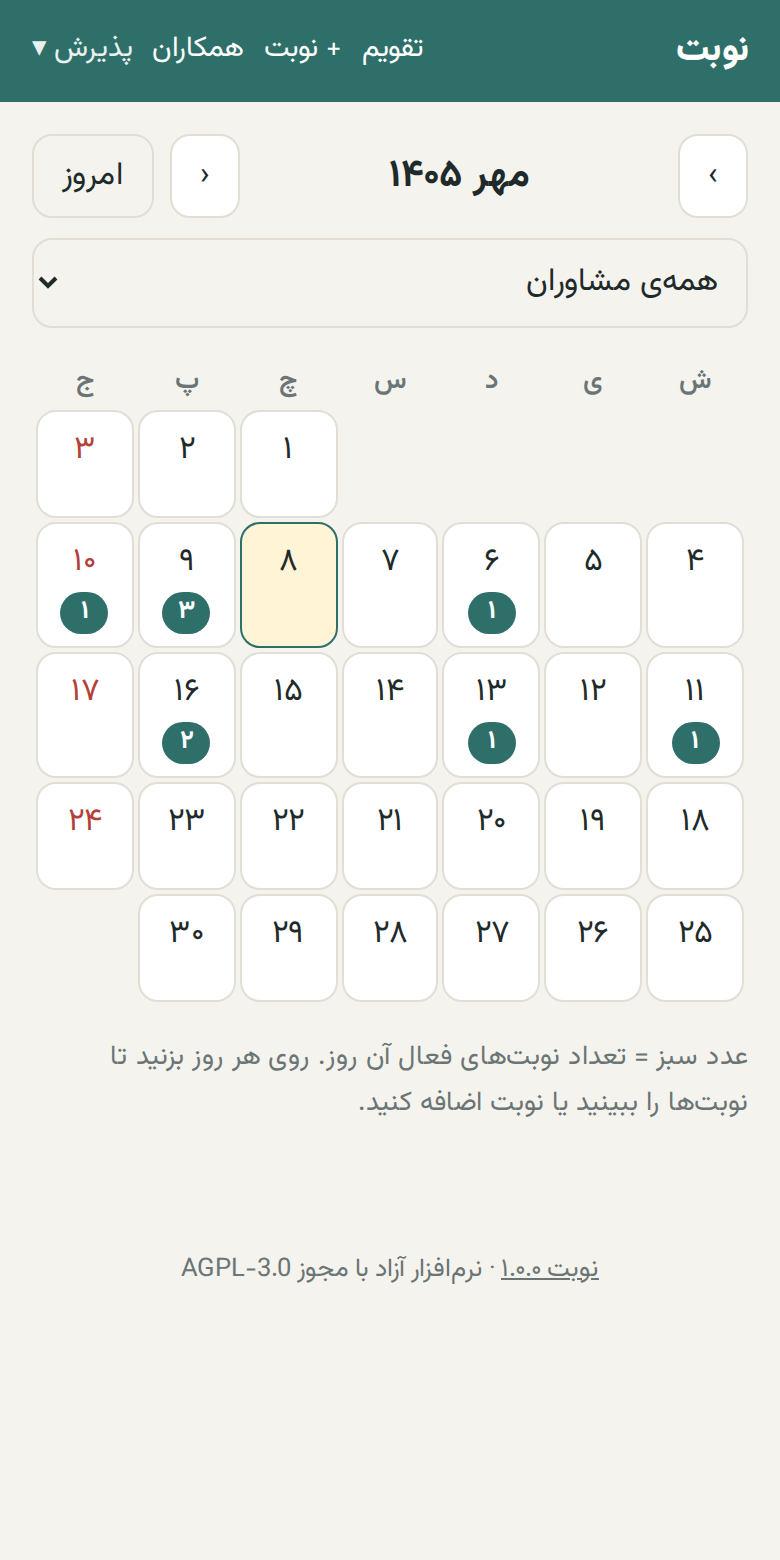
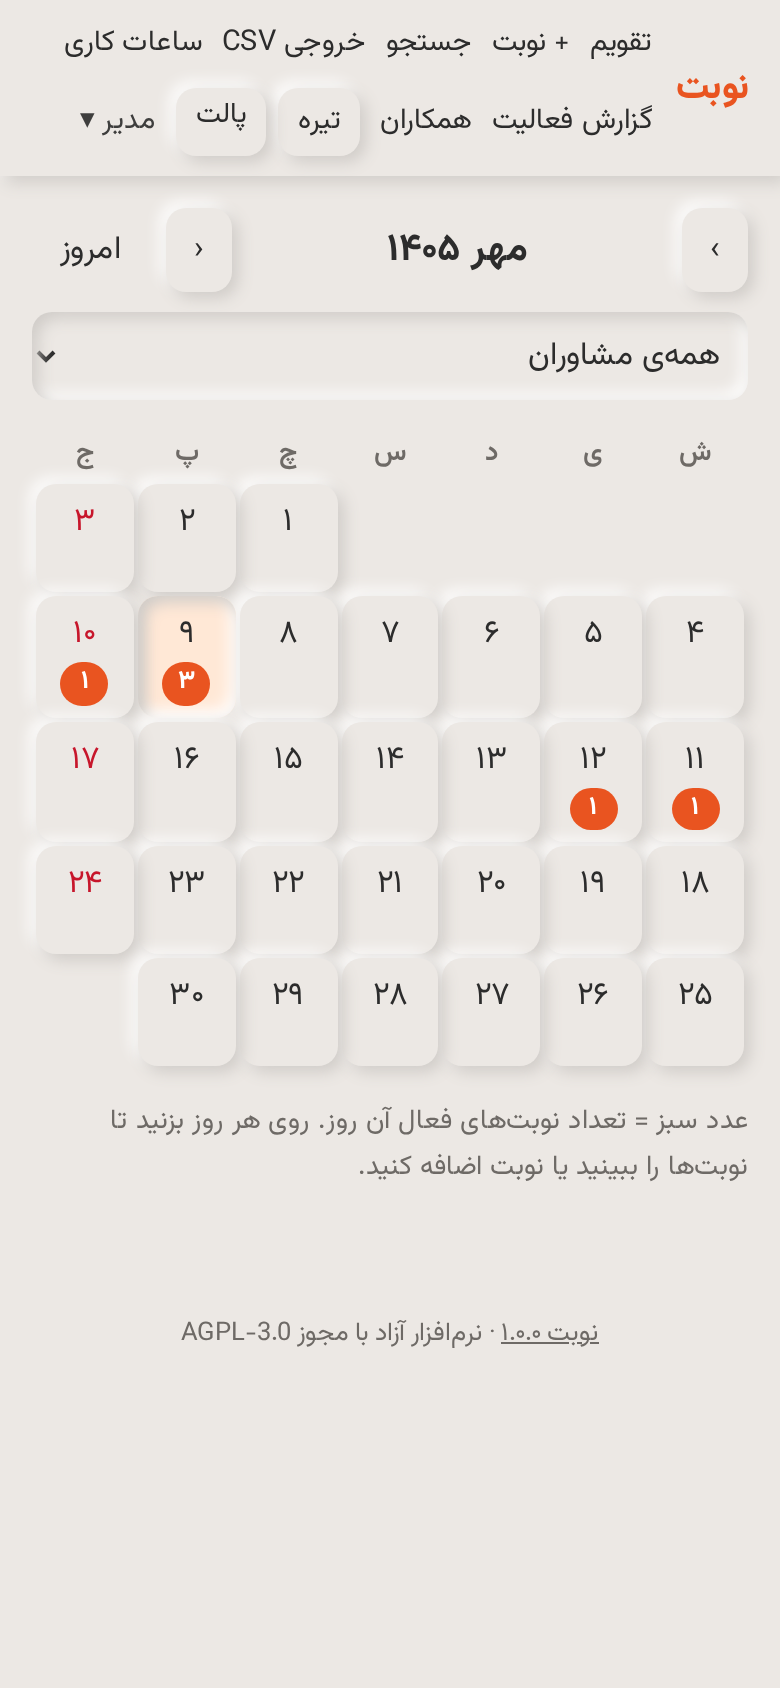
Docs: yaru screenshots and orange day-count wording
Replace calendar/day/my-schedule PNGs with yaru-orange captures.
User-visible day-count wording now says orange / عدد نارنجی
(USER_GUIDE EN/FA + calendar.html hint). CSS tag classes unchanged.

diff --git a/app/templates/calendar.html b/app/templates/calendar.html
@@ -36,5 +36,5 @@
   {% endfor %}
   </tbody>
 </table>
-<p class="hint">عدد سبز = تعداد نوبتهای فعال آن روز. روی هر روز بزنید تا نوبتها را ببینید یا نوبت اضافه کنید.</p>
+<p class="hint">عدد نارنجی = تعداد نوبتهای فعال آن روز. روی هر روز بزنید تا نوبتها را ببینید یا نوبت اضافه کنید.</p>
 {% endblock %}

diff --git a/docs/USER_GUIDE.fa.md b/docs/USER_GUIDE.fa.md
@@ -63,7 +63,7 @@
 منوی **تقویم** را باز کنید.
 
 - ماه را به صورت **شمسی** میبینید.
-- عدد سبز روی هر روز = تعداد نوبتهای **فعال** آن روز.
+- عدد نارنجی روی هر روز = تعداد نوبتهای **فعال** آن روز.
 - روی یک روز بزنید تا فهرست نوبتهایش باز شود.
 - با فلشها ماه را عوض کنید، یا **امروز** را بزنید.
 - میتوانید فقط نوبتهای یک همکار را فیلتر کنید.

diff --git a/docs/USER_GUIDE.md b/docs/USER_GUIDE.md
@@ -61,7 +61,7 @@ Your choice is remembered in this browser.
 Open **تقویم**.
 
 - You see a **Jalali (Persian) month**.
-- A green number on a day = how many **active** appointments that day has.
+- An orange number on a day = how many **active** appointments that day has.
 - Tap a day to open the **day list**.
 - Use the arrows to change month, or **امروز** to jump to today.
 - Optional filter: pick one colleague to see only their days.
